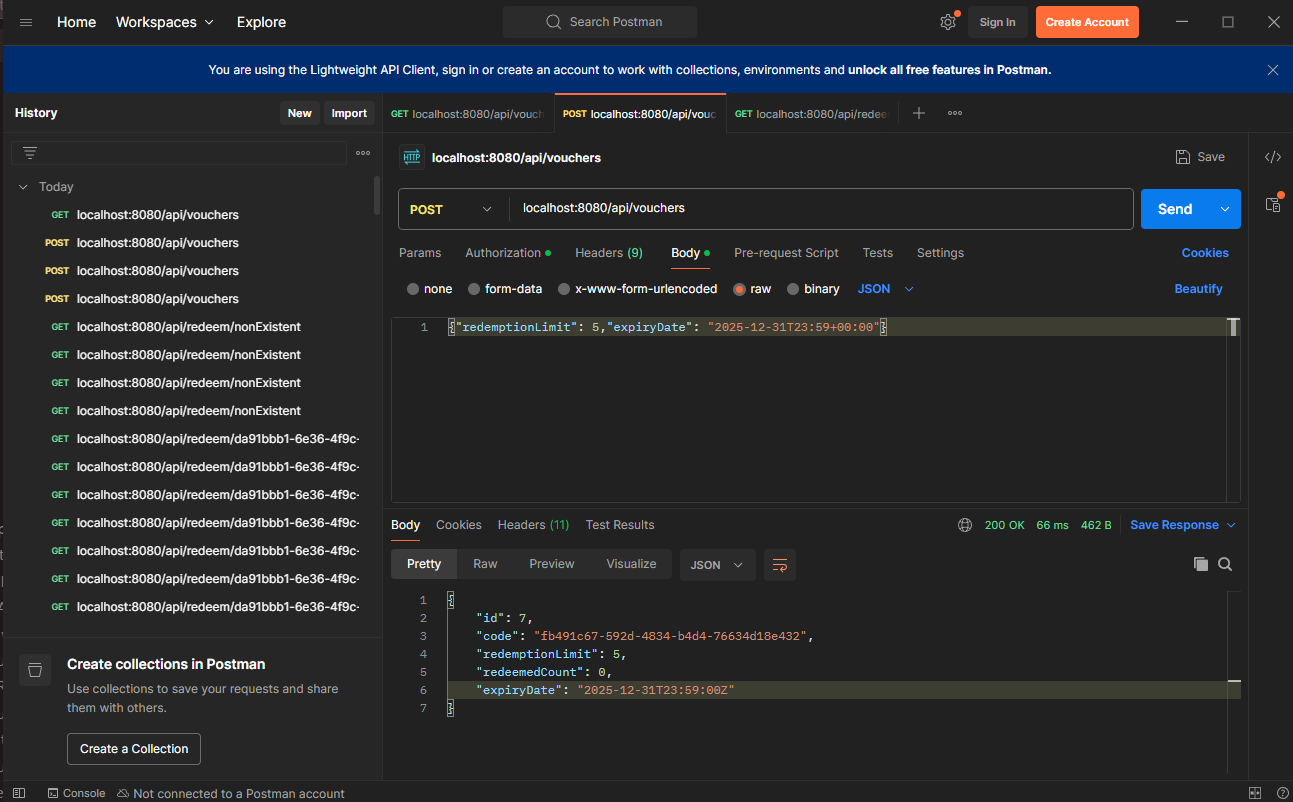
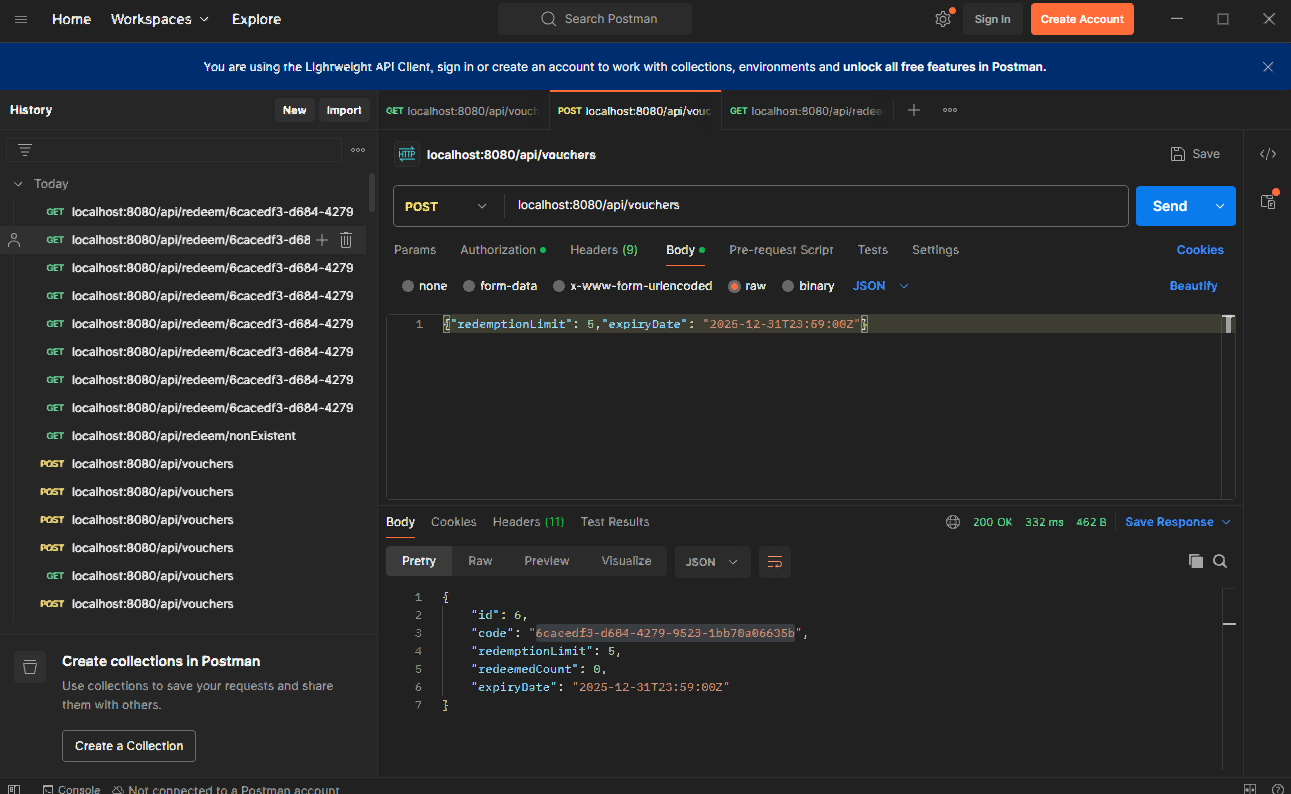
Update expiryDate to Instant

diff --git a/src/test/java/com/loosap/voucher/controller/VoucherRedemptionControllerTest.java b/src/test/java/com/loosap/voucher/controller/VoucherRedemptionControllerTest.java
@@ -20,7 +20,7 @@ import org.springframework.test.web.servlet.MockMvc;
 import org.springframework.transaction.annotation.Transactional;
 
 import static org.springframework.security.test.web.servlet.request.SecurityMockMvcRequestPostProcessors.httpBasic;
-import static org.springframework.test.web.servlet.request.MockMvcRequestBuilders.post;
+import static org.springframework.test.web.servlet.request.MockMvcRequestBuilders.get;
 import static org.springframework.test.web.servlet.result.MockMvcResultMatchers.*;
 
 @TestPropertySource("/application-test.properties")
@@ -77,7 +77,7 @@ class VoucherRedemptionControllerTest {
 
     @Test
     void redeemVoucherWithAdminAuth() throws Exception {
-        mockMvc.perform(post("/api/redeem/SINGLE")
+        mockMvc.perform(get("/api/redeem/SINGLE6a-9d7e-42a1-8a59-59cb91fbc2d4")
                 .with(httpBasic("admin", "admin")))
                 .andExpect(status().isOk())
                 .andExpect(content().string("Voucher redeemed successfully."));
@@ -85,7 +85,7 @@ class VoucherRedemptionControllerTest {
 
     @Test
     void redeemVoucherWithUserAuth() throws Exception {
-        mockMvc.perform(post("/api/redeem/SINGLE")
+        mockMvc.perform(get("/api/redeem/SINGLE6a-9d7e-42a1-8a59-59cb91fbc2d4")
                 .with(httpBasic("user", "user")))
                 .andExpect(status().isOk())
                 .andExpect(content().string("Voucher redeemed successfully."));
@@ -93,39 +93,39 @@ class VoucherRedemptionControllerTest {
 
     @Test
     void redeemVoucherWithoutAuth() throws Exception {
-        mockMvc.perform(post("/api/redeem/SINGLE"))
+        mockMvc.perform(get("/api/redeem/SINGLE6a-9d7e-42a1-8a59-59cb91fbc2d4"))
                 .andExpect(status().isUnauthorized());
     }
 
     @Test
     void redeemExpiredVoucherWithAdminAuth() throws Exception {
-        mockMvc.perform(post("/api/redeem/EXPIRED")
+        mockMvc.perform(get("/api/redeem/EXPIREDf-9a7e-45d8-b3a2-e4a3d7e2f09f")
                 .with(httpBasic("admin", "admin")))
                 .andExpect(status().isBadRequest())
-                .andExpect(content().string("Voucher redemption failed."));
+                .andExpect(content().string("Voucher has expired."));
     }
 
     @Test
     void redeemExpiredVoucherWithUserAuth() throws Exception {
-        mockMvc.perform(post("/api/redeem/EXPIRED")
+        mockMvc.perform(get("/api/redeem/EXPIREDf-9a7e-45d8-b3a2-e4a3d7e2f09f")
                 .with(httpBasic("user", "user")))
                 .andExpect(status().isBadRequest())
-                .andExpect(content().string("Voucher redemption failed."));
+                .andExpect(content().string("Voucher has expired."));
     }
 
     @Test
     void redeemVoucherExceedingLimitWithAdminAuth() throws Exception {
         for (int i = 0; i < 3; i++) {
-            mockMvc.perform(post("/api/redeem/THREETIMES")
+            mockMvc.perform(get("/api/redeem/3TIMES4b-634f-4dd1-b4df-8f7e32ab7dc6")
                     .with(httpBasic("admin", "admin")))
                     .andExpect(status().isOk())
                     .andExpect(content().string("Voucher redeemed successfully."));
         }
 
-        mockMvc.perform(post("/api/redeem/THREETIMES")
+        mockMvc.perform(get("/api/redeem/3TIMES4b-634f-4dd1-b4df-8f7e32ab7dc6")
                 .with(httpBasic("admin", "admin")))
                 .andExpect(status().isBadRequest())
-                .andExpect(content().string("Voucher redemption failed."));
+                .andExpect(content().string("Voucher has reached its redemption limit."));
     }
 
 

diff --git a/src/test/java/com/loosap/voucher/controller/VoucherManagementControllerTest.java b/src/test/java/com/loosap/voucher/controller/VoucherManagementControllerTest.java
@@ -23,6 +23,7 @@ import static org.springframework.security.test.web.servlet.request.SecurityMock
 import static org.springframework.test.web.servlet.request.MockMvcRequestBuilders.*;
 import static org.springframework.test.web.servlet.result.MockMvcResultMatchers.*;
 
+import java.time.Instant;
 import java.time.ZonedDateTime;
 
 @TestPropertySource("/application-test.properties")
@@ -80,7 +81,8 @@ class VoucherManagementControllerTest {
 
     @Test
     void createVoucherWithAdminAuth() throws Exception {
-        Voucher newVoucher = new Voucher(10, ZonedDateTime.of(2025, 12, 31, 23, 59, 59, 0, ZonedDateTime.now().getZone()));
+        Instant now = Instant.now().plusSeconds(86400);
+        Voucher newVoucher = new Voucher(10, now);
         String voucherJson = objectMapper.writeValueAsString(newVoucher);
 
         mockMvc.perform(post("/api/vouchers")
@@ -90,13 +92,13 @@ class VoucherManagementControllerTest {
                 .andExpect(status().isOk())
                 .andExpect(jsonPath("$.code").exists())
                 .andExpect(jsonPath("$.redemptionLimit").value(10))
-                .andExpect(jsonPath("$.expiryDate").value("2025-12-31T23:59:59"));
+                .andExpect(jsonPath("$.expiryDate").value(now.toString()));
 
     }
 
     @Test
     void createVoucherWithoutAuth() throws Exception {
-        Voucher newVoucher = new Voucher(10, ZonedDateTime.of(2025, 12, 31, 23, 59, 59, 0, ZonedDateTime.now().getZone()));
+        Voucher newVoucher = new Voucher(10, Instant.now().plusSeconds(86400));
         String voucherJson = objectMapper.writeValueAsString(newVoucher);
 
         mockMvc.perform(post("/api/vouchers")
@@ -107,7 +109,7 @@ class VoucherManagementControllerTest {
 
     @Test
     void createVoucherWithUserAuth() throws Exception {
-        Voucher newVoucher = new Voucher(10, ZonedDateTime.of(2025, 12, 31, 23, 59, 59, 0, ZonedDateTime.now().getZone()));
+        Voucher newVoucher = new Voucher(10, Instant.now().plusSeconds(86400));
         String voucherJson = objectMapper.writeValueAsString(newVoucher);
 
         mockMvc.perform(post("/api/vouchers")

diff --git a/src/test/java/com/loosap/voucher/service/VoucherServiceImplTest.java b/src/test/java/com/loosap/voucher/service/VoucherServiceImplTest.java
@@ -1,13 +1,9 @@
 package com.loosap.voucher.service;
 
 import com.loosap.voucher.entity.Voucher;
-import com.loosap.voucher.repository.VoucherRepository;
 import org.junit.jupiter.api.AfterEach;
 import org.junit.jupiter.api.BeforeEach;
 import org.junit.jupiter.api.Test;
-import org.mockito.InjectMocks;
-import org.mockito.Mock;
-import org.mockito.MockitoAnnotations;
 import org.springframework.beans.factory.annotation.Autowired;
 import org.springframework.beans.factory.annotation.Value;
 import org.springframework.boot.test.context.SpringBootTest;
@@ -16,8 +12,7 @@ import org.springframework.test.context.TestPropertySource;
 
 import static org.junit.jupiter.api.Assertions.*;
 
-import java.time.ZoneId;
-import java.time.ZonedDateTime;
+import java.time.Instant;
 import java.util.List;
 
 @TestPropertySource("/application-test.properties")
@@ -59,15 +54,16 @@ class VoucherServiceImplTest {
 
     @Test
     void createVoucher() {
-        Voucher newVoucher = new Voucher(10, ZonedDateTime.of(2025, 12, 31, 23, 59, 59, 0, ZoneId.systemDefault()));
+        Instant now = Instant.now().plusSeconds(86400);
+        Voucher newVoucher = new Voucher(10, now);
         Voucher createdVoucher = voucherService.createVoucher(newVoucher);
 
         assertNotNull(createdVoucher.getId());
         assertEquals(10, createdVoucher.getRedemptionLimit());
         assertEquals(0, createdVoucher.getRedeemedCount());
-        assertEquals(ZonedDateTime.of(2025, 12, 31, 23, 59, 59, 0, ZoneId.systemDefault()), createdVoucher.getExpiryDate());
+        assertEquals(now, createdVoucher.getExpiryDate());
 
-        Voucher expiredVoucher = new Voucher(5, ZonedDateTime.of(2020, 1, 1, 0, 0, 0, 0, ZoneId.systemDefault()));
+        Voucher expiredVoucher = new Voucher(5, Instant.now().minusSeconds(86400));
 
         Exception exception = assertThrows(IllegalArgumentException.class, () -> {
             voucherService.createVoucher(expiredVoucher);

diff --git a/src/main/java/com/loosap/voucher/service/VoucherServiceImpl.java b/src/main/java/com/loosap/voucher/service/VoucherServiceImpl.java
@@ -5,7 +5,7 @@ import com.loosap.voucher.repository.VoucherRepository;
 import jakarta.validation.Valid;
 import org.springframework.stereotype.Service;
 
-import java.time.ZonedDateTime;
+import java.time.Instant;
 import java.util.List;
 
 @Service
@@ -19,7 +19,7 @@ public class VoucherServiceImpl implements VoucherService {
 
     @Override
     public Voucher createVoucher(@Valid Voucher voucher) {
-        if (voucher.getExpiryDate().isBefore(ZonedDateTime.now())) {
+        if (voucher.getExpiryDate().isBefore(Instant.now())) {
             throw new IllegalArgumentException("Expiry date must be in the future.");
         }
 
@@ -30,7 +30,7 @@ public class VoucherServiceImpl implements VoucherService {
     @Override
     public boolean redeemVoucher(String code) {
         return voucherRepository.findByCode(code)
-                .filter(voucher -> voucher.getExpiryDate().isAfter(ZonedDateTime.now()))
+                .filter(voucher -> voucher.getExpiryDate().isAfter(Instant.now()))
                 .filter(voucher -> voucher.getRedemptionLimit() == 0 || voucher.getRedeemedCount() < voucher.getRedemptionLimit())
                 .map(voucher -> {
                     voucher.setRedeemedCount(voucher.getRedeemedCount() + 1);
@@ -43,7 +43,7 @@ public class VoucherServiceImpl implements VoucherService {
     @Override
     public String getRedeemDenyReason(String code) {
         return voucherRepository.findByCode(code)
-                .filter(voucher -> voucher.getExpiryDate().isBefore(ZonedDateTime.now()))
+                .filter(voucher -> voucher.getExpiryDate().isBefore(Instant.now()))
                 .map(voucher -> "Voucher has expired.")
                 .orElseGet(() -> voucherRepository.findByCode(code)
                         .filter(voucher -> voucher.getRedemptionLimit() > 0 && voucher.getRedeemedCount() >= voucher.getRedemptionLimit())

diff --git a/src/test/java/com/loosap/voucher/entity/VoucherValidationTest.java b/src/test/java/com/loosap/voucher/entity/VoucherValidationTest.java
@@ -7,7 +7,7 @@ import jakarta.validation.ValidatorFactory;
 import org.junit.jupiter.api.BeforeAll;
 import org.junit.jupiter.api.Test;
 
-import java.time.ZonedDateTime;
+import java.time.Instant;
 import java.util.Set;
 
 import static org.junit.jupiter.api.Assertions.assertEquals;
@@ -24,7 +24,7 @@ class VoucherValidationTest {
 
     @Test
     void testRedeemedCountExceedsRedemptionLimit() {
-        Voucher voucher = new Voucher(1, ZonedDateTime.now().plusDays(1));
+        Voucher voucher = new Voucher(1, Instant.now().plusSeconds(86400));
         voucher.setRedeemedCount(2);
 
         Set<ConstraintViolation<Voucher>> violations = validator.validate(voucher);
@@ -34,7 +34,7 @@ class VoucherValidationTest {
 
     @Test
     void testRedeemedCountEqualsRedemptionLimit() {
-        Voucher voucher = new Voucher(10, ZonedDateTime.now().plusDays(1));
+        Voucher voucher = new Voucher(10, Instant.now().plusSeconds(86400));
         voucher.setRedeemedCount(10);
 
         Set<ConstraintViolation<Voucher>> violations = validator.validate(voucher);
@@ -43,7 +43,7 @@ class VoucherValidationTest {
 
     @Test
     void testZeroRedemptionLimitAndRedeemedCount() {
-        Voucher voucher = new Voucher(0, ZonedDateTime.now().plusDays(1));
+        Voucher voucher = new Voucher(0, Instant.now().plusSeconds(86400));
         voucher.setRedeemedCount(1);
 
         Set<ConstraintViolation<Voucher>> violations = validator.validate(voucher);

diff --git a/src/main/java/com/loosap/voucher/entity/Voucher.java b/src/main/java/com/loosap/voucher/entity/Voucher.java
@@ -4,7 +4,7 @@ import com.loosap.voucher.validation.ValidValueRange;
 import jakarta.persistence.*;
 import jakarta.validation.constraints.*;
 
-import java.time.ZonedDateTime;
+import java.time.Instant;
 import java.util.UUID;
 
 @Entity
@@ -26,12 +26,12 @@ public class Voucher {
     private int redeemedCount;
 
     @Future(message = "Expiry date must be in the future")
-    private ZonedDateTime expiryDate;
+    private Instant expiryDate;
 
     public Voucher() {
     }
 
-    public Voucher(int redemptionLimit, ZonedDateTime expiryDate) {
+    public Voucher(int redemptionLimit, Instant expiryDate) {
         this.redemptionLimit = redemptionLimit;
         this.expiryDate = expiryDate;
         this.redeemedCount = 0;
@@ -44,11 +44,11 @@ public class Voucher {
         }
     }
 
-    public ZonedDateTime getExpiryDate() {
+    public Instant getExpiryDate() {
         return expiryDate;
     }
 
-    public void setExpiryDate(ZonedDateTime expiryDate) {
+    public void setExpiryDate(Instant expiryDate) {
         this.expiryDate = expiryDate;
     }
 

diff --git a/README.md b/README.md
@@ -26,12 +26,12 @@ mvn spring-boot:run
 
 - Post Requesteknél a `Body` fülön a `raw` opciót választjuk, és JSON formátumban adjuk meg az adatokat. Például:
 ```json
-{"redemptionLimit": 5,"expiryDate": "2025-12-31T23:59+00:00"}```
+{"redemptionLimit": 5,"expiryDate": "2025-12-31T23:59:00Z"}
 ```
 ![Post Request](src/main/resources/static/post.png)
 
 - Redeem Requestnél az URL végére a kódot kell beírni, például:
 ```
-localhost:8080/api/redeem/SINGLE
+localhost:8080/api/redeem/<kód>
 ```
 ![Redeem Request](src/main/resources/static/redeem.png)
